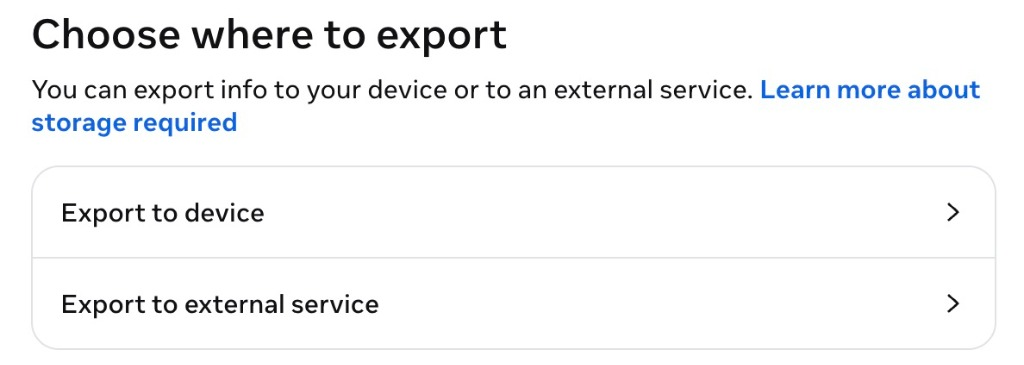
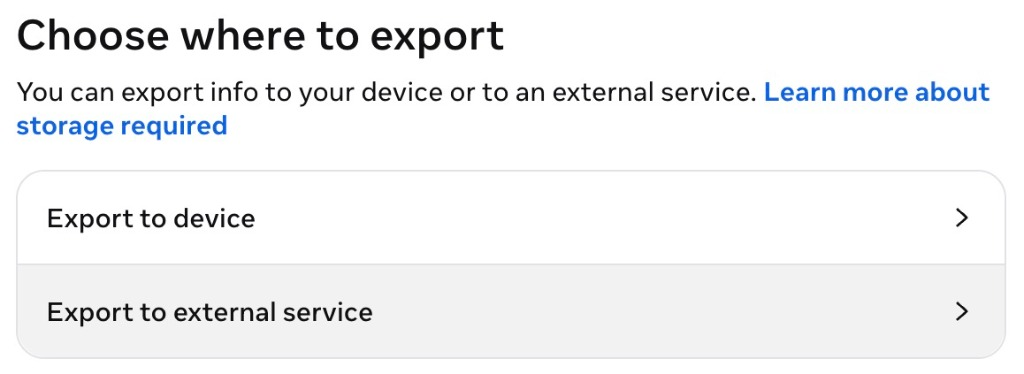
Add export to device step image view with numbered list and organize instructions into dedicated step views

diff --git a/index.html b/index.html
@@ -466,11 +466,14 @@
       </div>
 
       <div class="instructions-steps-nav">
-        <button class="instructions-tab active" data-step="1">1. export data</button>
-        <button class="instructions-tab" data-step="2">2. import files</button>
-        <button class="instructions-tab" data-step="3">3. check results</button>
+        <button class="instructions-tab active" data-step="1">1. accounts center</button>
+        <button class="instructions-tab" data-step="2">2. export to device</button>
+        <button class="instructions-tab" data-step="3">3. customize info</button>
+        <button class="instructions-tab" data-step="4">4. import files</button>
+        <button class="instructions-tab" data-step="5">5. check results</button>
       </div>
 
+      <!-- Step 1: Accounts Center -->
       <div class="instructions-step-pane active" id="instructions-step-1">
         <div class="step-image-container">
           <img src="images/step_accounts_center.jpg" alt="accounts center" class="step-guide-img">
@@ -481,7 +484,30 @@
         </ol>
       </div>
 
+      <!-- Step 2: Export to device -->
       <div class="instructions-step-pane" id="instructions-step-2">
+        <div class="step-image-container">
+          <img src="images/step_export_device.jpg" alt="export to device" class="step-guide-img">
+        </div>
+        <ol class="instructions-step-list">
+          <li>go to <strong>your information &amp; permissions</strong> &rarr; tap <strong>download your information</strong></li>
+          <li>select <strong>export to device</strong></li>
+        </ol>
+      </div>
+
+      <!-- Step 3: Customize info -->
+      <div class="instructions-step-pane" id="instructions-step-3">
+        <div class="step-image-container">
+          <img src="images/step_customize_info.jpg" alt="customize info" class="step-guide-img">
+        </div>
+        <ol class="instructions-step-list">
+          <li>select <strong>followers and following</strong> in customize information</li>
+          <li>set date range to <strong>all time</strong> &amp; format to <strong>html</strong></li>
+        </ol>
+      </div>
+
+      <!-- Step 4: Import files -->
+      <div class="instructions-step-pane" id="instructions-step-4">
         <div class="instructions-visual-card">
           <div class="visual-icon-badge">
             <svg viewBox="0 0 24 24" width="32" height="32" fill="none" stroke="currentColor" stroke-width="1.8" stroke-linecap="round" stroke-linejoin="round">
@@ -492,7 +518,7 @@
             </svg>
           </div>
           <div class="visual-step-banner">
-            <div class="banner-badge">step 2</div>
+            <div class="banner-badge">step 4</div>
             <span>upload files or folder</span>
           </div>
         </div>
@@ -503,7 +529,8 @@
         </ol>
       </div>
 
-      <div class="instructions-step-pane" id="instructions-step-3">
+      <!-- Step 5: Check results -->
+      <div class="instructions-step-pane" id="instructions-step-5">
         <div class="instructions-visual-card">
           <div class="visual-icon-badge">
             <svg viewBox="0 0 24 24" width="32" height="32" fill="none" stroke="currentColor" stroke-width="1.8" stroke-linecap="round" stroke-linejoin="round">
@@ -511,7 +538,7 @@
             </svg>
           </div>
           <div class="visual-step-banner">
-            <div class="banner-badge">step 3</div>
+            <div class="banner-badge">step 5</div>
             <span>view unfollowers &amp; star</span>
           </div>
         </div>
@@ -527,6 +554,8 @@
           <span class="dot active" data-step="1"></span>
           <span class="dot" data-step="2"></span>
           <span class="dot" data-step="3"></span>
+          <span class="dot" data-step="4"></span>
+          <span class="dot" data-step="5"></span>
         </div>
         <button id="btn-instructions-next" class="btn btn-sm btn-primary">next step</button>
       </div>

diff --git a/script.js b/script.js
@@ -1608,7 +1608,7 @@ function setupEventListeners() {
   }
   if (elements.btnInstructionsNext) {
     elements.btnInstructionsNext.addEventListener('click', () => {
-      if (currentInstructionStep < 3) {
+      if (currentInstructionStep < 5) {
         currentInstructionStep++;
         updateInstructionsStepUI();
       } else {
@@ -1681,7 +1681,7 @@ function updateInstructionsStepUI() {
   });
 
   if (elements.btnInstructionsNext) {
-    if (currentInstructionStep === 3) {
+    if (currentInstructionStep === 5) {
       elements.btnInstructionsNext.textContent = 'close';
     } else {
       elements.btnInstructionsNext.textContent = 'next step';
